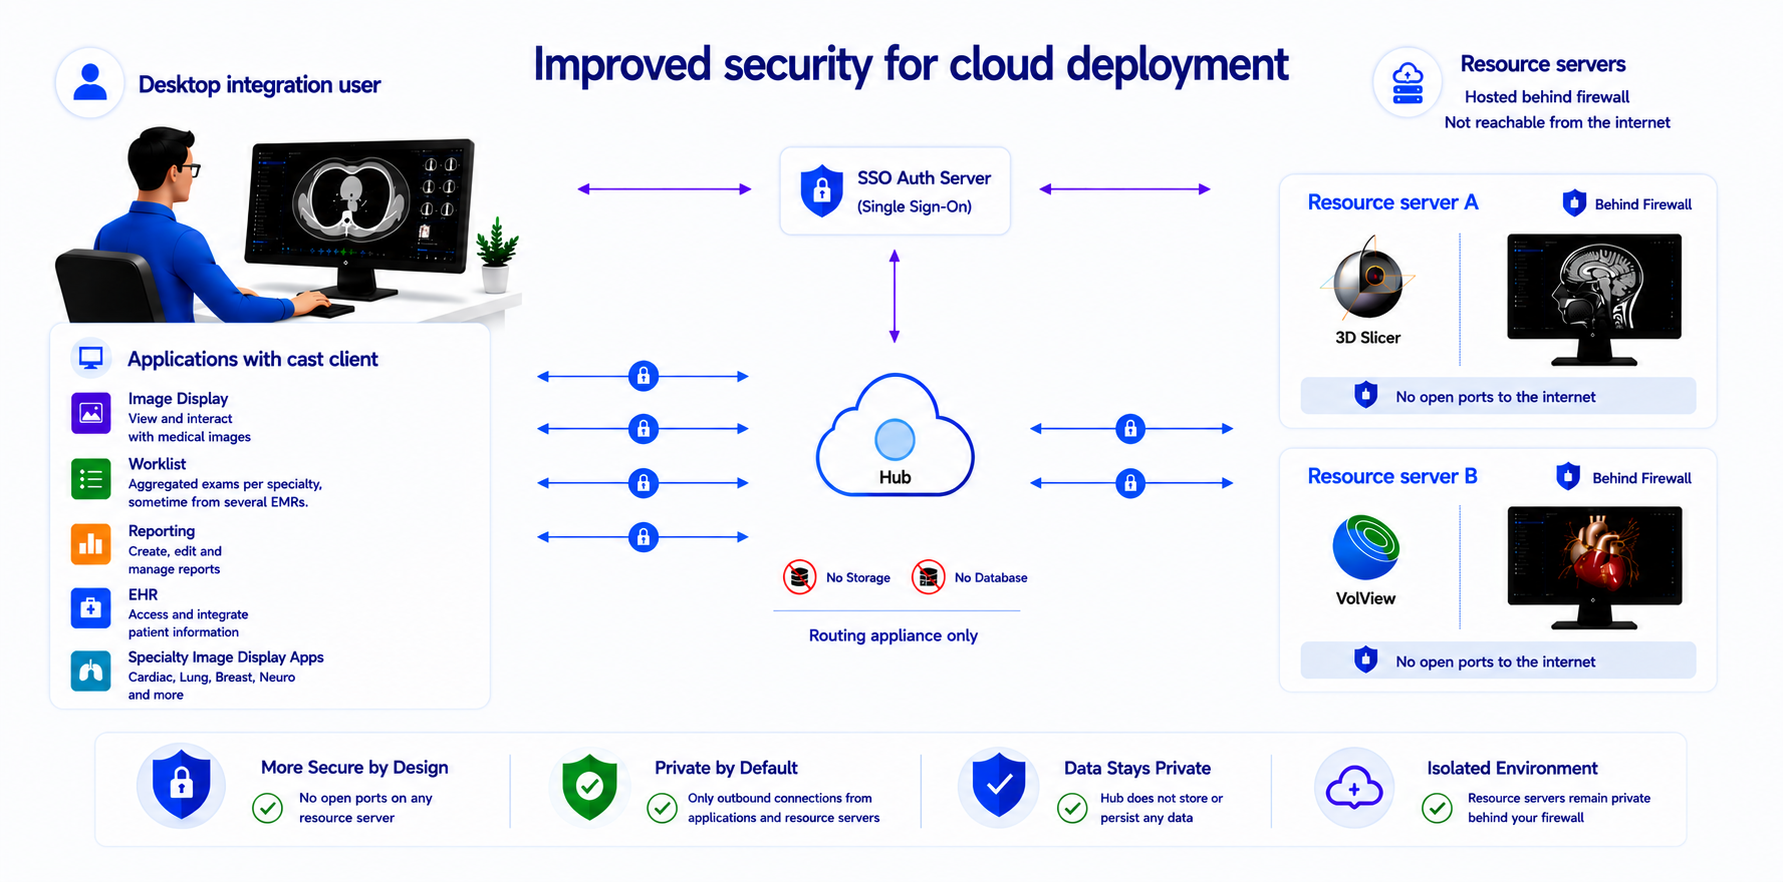
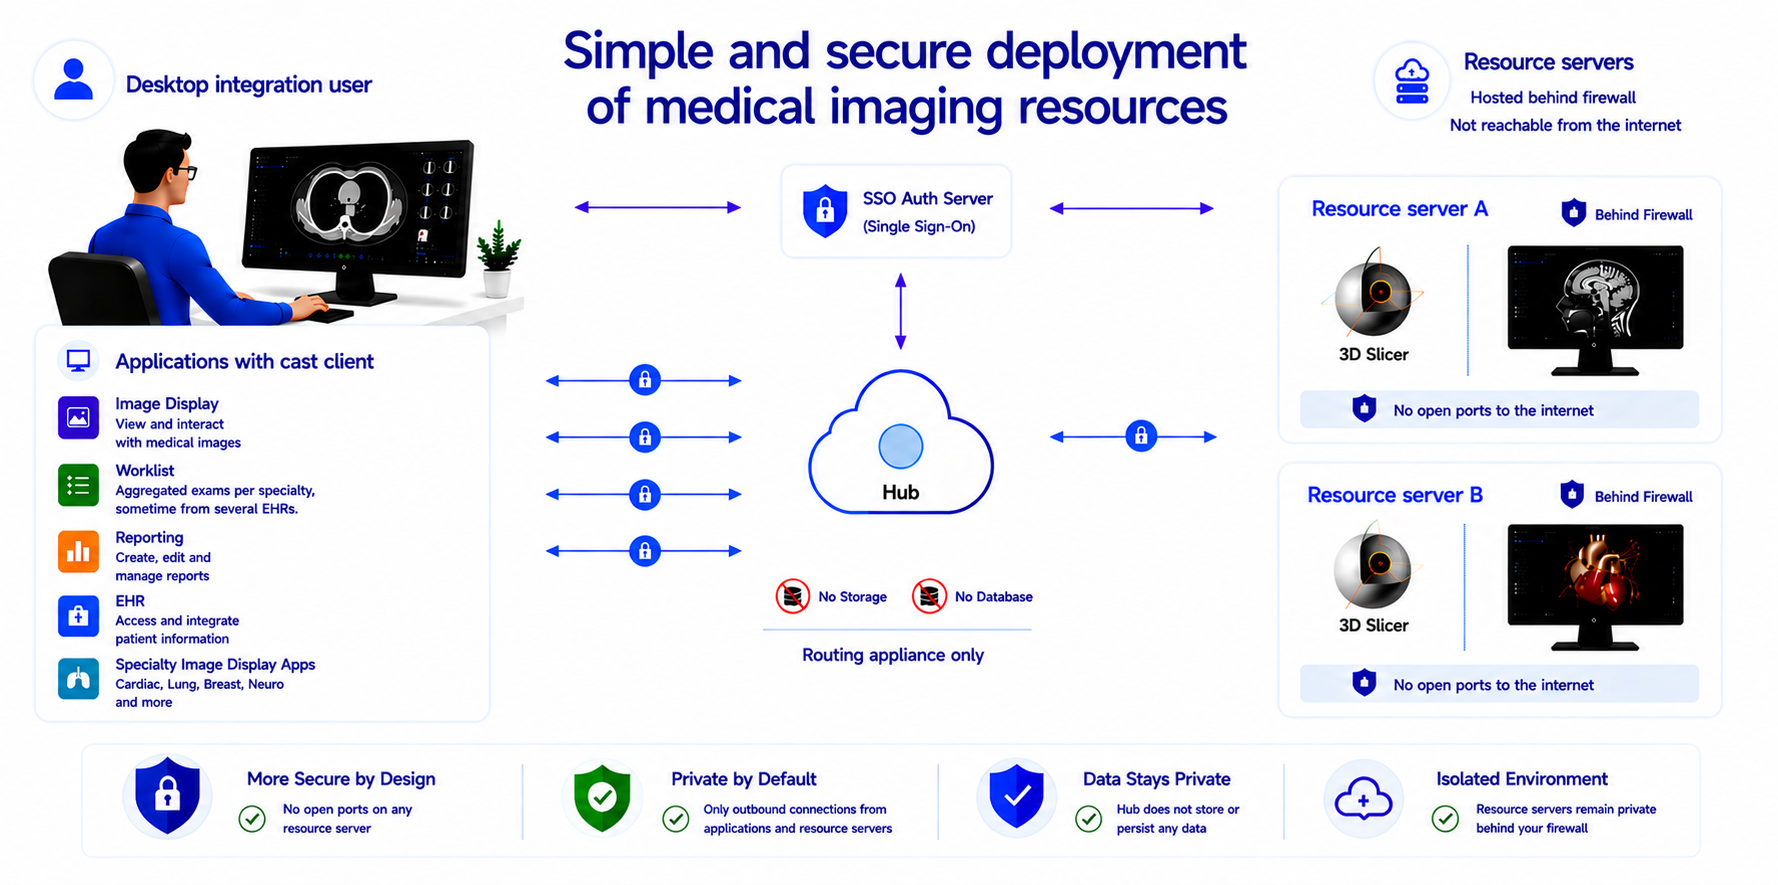
readme

diff --git a/README.md b/README.md
@@ -73,14 +73,15 @@ The image display client provide a PACS client type interface to the 3D slicer v
 
 ![image display client](CastInterface/docs/images/ImageDisplayClient.png)
 
-### Security Benefits for cloud deployment of 3D Slicer extensions 
+### Simplified, secure deployment of medical imaging services 
 
-This architecture protects resource servers by eliminating direct inbound internet exposure entirely.
+
+This architecture protects resource servers by eliminating direct inbound internet exposure entirely.  No hostname is required or change to the networking environment.
 
 With resource servers, developers can connect  the code running on their machine to their cloud hub instance. The instance in their dev environment is therefore available to their remote parters without having to deploy their code to a cloud server.  
 
 
-Each resource server establishes only **outbound encrypted connections** to the Cast Hub, which functions exclusively as a  **routing  appliance**. Because no inbound ports need to be opened on hospital or enterprise networks, the resource servers remain protected behind existing firewalls and are never directly reachable from the public internet.
+Each resource server establishes only outbound encrypted connections to the Cast Hub, which functions exclusively as a  routing  appliance. Because no inbound ports need to be opened on hospital or enterprise networks, the resource servers remain protected behind existing firewalls and are never directly reachable from the public internet.
 
 It also simplifies providing resources in-house  since the IT department only needs to add a hostname and rules for the hub.  They do not have to touch their networking every time a new resource server is available for use.  They only have to configure a shared key for it in their auth server.
 